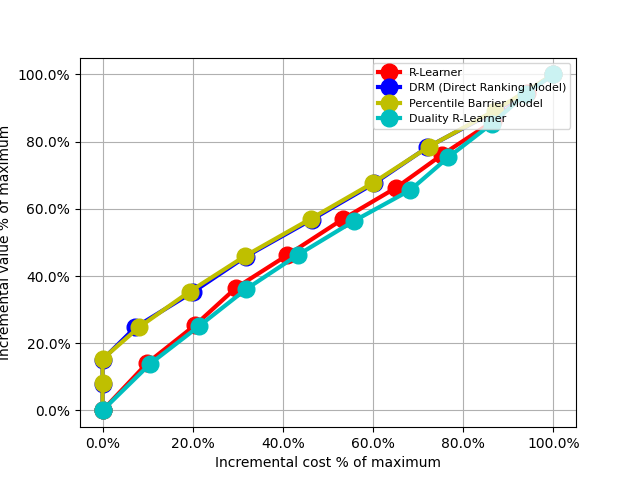
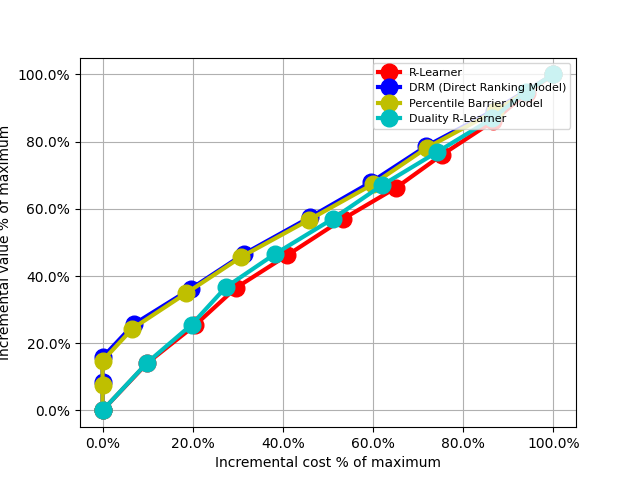
update us_census data visualization

Changed region(s): [[0.125, 0.1875, 0.8125, 0.8438]]

diff --git a/run_script.py b/run_script.py
@@ -35,8 +35,8 @@ ex = Experiment()
 # values: dIncome1 (reward)
 # cost: iFertil (positive cost)
 
-nX_tr, nX_va, nX_te, w_tr, w_va, w_te, values_tr, values_va, values_te, cost_tr, cost_va, cost_te = preprocess_data('/Users/jenniferzhang/Desktop/Research with Will/USCensus1990.data.txt') 
-# nX_tr, nX_va, nX_te, w_tr, w_va, w_te, values_tr, values_va, values_te, cost_tr, cost_va, cost_te = process_data("/Users/jenniferzhang/Desktop/Research with Will/covtype.csv") 
+# nX_tr, nX_va, nX_te, w_tr, w_va, w_te, values_tr, values_va, values_te, cost_tr, cost_va, cost_te = preprocess_data('/Users/jenniferzhang/Desktop/Research with Will/USCensus1990.data.txt') 
+nX_tr, nX_va, nX_te, w_tr, w_va, w_te, values_tr, values_va, values_te, cost_tr, cost_va, cost_te = process_data("/Users/jenniferzhang/Desktop/Research with Will/covtype.csv") 
 
 # ----- rlearner ----- # 
 rlearnermodel_O = RLearner()
@@ -225,7 +225,10 @@ mplt_drl.legend(
 
 lmda = 0.05
 
+# for covertype
 fitting_drl = drl.fit_dual(nX_tr, np.reshape(values_tr, [-1, 1]), np.reshape(cost_tr, [-1, 1]),  np.reshape(w_tr, [-1, 1]), lmda)
+# for us census
+# fitting_drl = drl.fit_dual(nX_tr, np.reshape(values_tr, [-1, 1]), - np.reshape(cost_tr, [-1, 1]),  np.reshape(w_tr, [-1, 1]), lmda)
 predicted_drl = fitting_drl.predict(nX_va)
 
 mplt_drl, aucc_drl, percs_drl, cpits_drl, cpitcohorts_drl = ex.AUC_cpit_cost_curve_deciles_cohort_vis(
